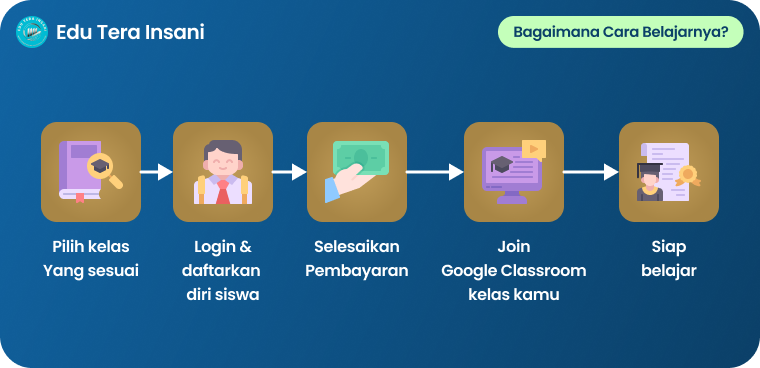
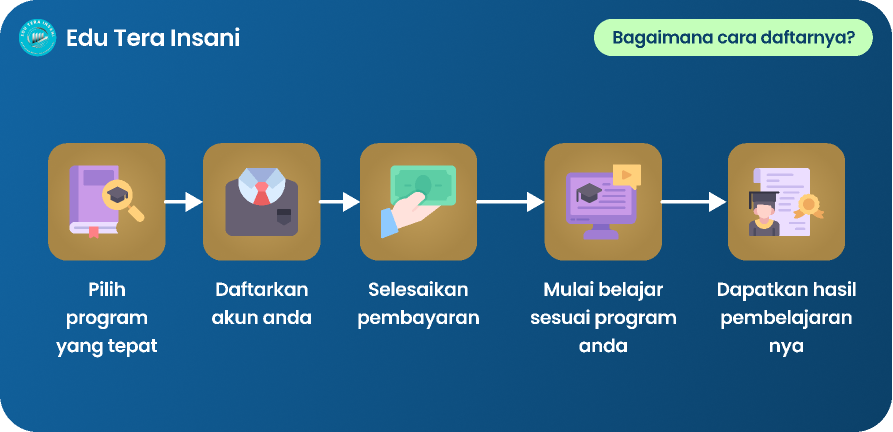
STYLE : Home, LearningPath

diff --git a/src/components/LearningPath.jsx b/src/components/LearningPath.jsx
@@ -23,12 +23,11 @@ function LearningPath() {
             Bagaimana Cara Belajarnya?
           </h2>
           <p className="text-base text-neutral-2 w-mobile-6 ">
-            Jelajahi bagaimana Edu Tera Insani membimbing siswa melalui
-            perjalanan belajar terstruktur dan personal untuk kesuksesan
-            akademis optimal.
+          Pendaftaran di Edu Tera Insani mudah dan cepat, mulai perjalanan 
+          belajar Anda sekarang!
           </p>
         </div>
-        <img src={Learning} alt="Learning Plan" />
+        <img src={Learning} className="lg:w-[760px] w-[342px]" alt="Learning Plan" />
       </div>
     </div>
   );
